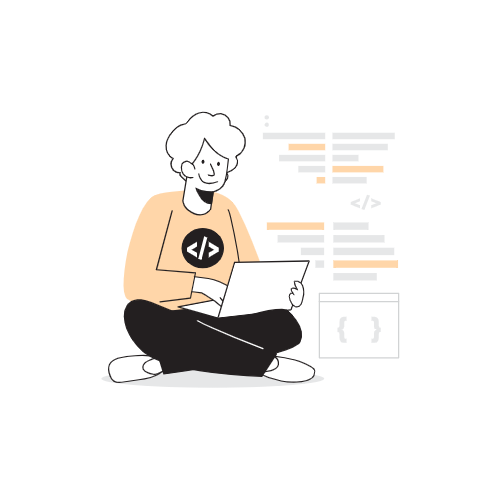
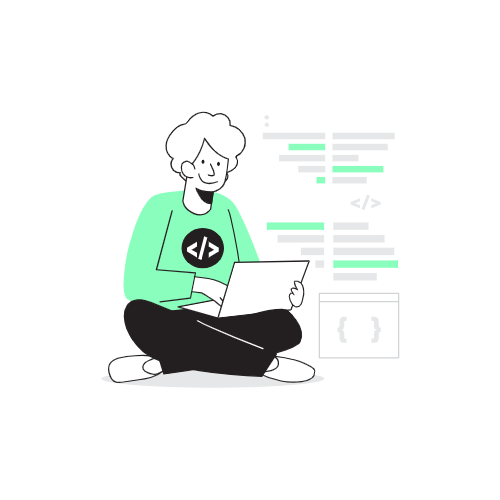
Add files via upload

diff --git a/assets/css/main.css b/assets/css/main.css
@@ -4,8 +4,11 @@ body { font-family: 'Rubik', sans-serif }
 h1, h2, h3 { color: #222 }
 h4 { font-family: "Sacramento", sans-serif;}
 p, li { color: #403d50 }
-.bg-pastel-green { background-color: rgb(227,250,245) }
-.bg-pastel-grey { background-color: #edf5f1 }
+.bg-pastel-green { background-color: #fff88a}
+.bg-pastel-grey { background-color:#fff88a
+
+
+}
 
 
 /* ==== CONTAINER FOR SINGLE COLUMN OF CONTENT ==== */
@@ -69,8 +72,8 @@ a.button:link, a.button:visited, a.button:hover, a.button:active {
 }
  
 a.button-solid:link, .button-solid:visited {
-    border-color: rgb(80,227,194);
-    background-color: rgb(80,227,194);
+    border-color: #F05454   ;
+    background-color: #F05454    ;
     color: #000;
 } 
  
@@ -206,8 +209,7 @@ a.dark-fancy-link:hover, a.dark-fancy-link:active { color: rgb(49,145,131); colo
 	.container-flexbox .item-3 { width: 100% }
 	.container-flexbox .item-3 { margin-bottom: 14% }
     .wrapper{
-        background-color: #ffd6a9
-        ;
+        background-color: #8affbd ;
         border: none ;
         border-radius: 5%;
         padding:  12px 12px 0px 12px;
@@ -400,7 +402,7 @@ img.image-circle {
 #contact-form #btn-submit { 
 	float: right; 
 	border: none; 
-    background-color: rgb(80,227,194);
+    background-color: rgb(80,227,194)   ;
     color: #000;
 	font-weight: bold;
     padding: 18px 28px;

diff --git a/assets/css/menus.css b/assets/css/menus.css
@@ -299,8 +299,8 @@
 }
 
 /* on mobiles only */
-.flyout-menu.menu-light { background-color: #ffd6a9}
-.menu-light.flyout-menu hr { background-color:rgb(80,227,194); border-color: rgb(80,227,194) } 
+.flyout-menu.menu-light { background-color: #fff3c7}
+.menu-light.flyout-menu hr { background-color:#FD6F96; border-color: #FD6F96 } 
 
 .menu-light.flyout-menu h4,
 .menu-light.flyout-menu h5,
@@ -313,21 +313,15 @@
 .menu-light .item-icon .bar3 { background-color:#403d50 }	
 
 
-/* email link */
-.menu-light.flyout-menu h5 a:link, 
-.menu-light.flyout-menu h5 a:visited {
-    border-bottom-color: rgb(80,227,194);
-}
-
 .menu-light.flyout-menu h5 a:hover, 
 .menu-light.flyout-menu h5 a:active {
     border-bottom-color: transparent;
 }
 
 /* profile image border colour */
-.menu-light.flyout-menu.flyout-menu-is-open div.fly-out-profile-box img { border-color: rgb(80,227,194) }
+.menu-light.flyout-menu.flyout-menu-is-open div.fly-out-profile-box img { border-color: #FD6F96 }
 
 /* contact icons */
-.menu-light.flyout-menu .fly-out-social-icons a i { color: rgb(80,227,194) }
+.menu-light.flyout-menu .fly-out-social-icons a i { color: #FD6F96 }
 
 /* === End light background menu === */

diff --git a/assets/css/footer.css b/assets/css/footer.css
@@ -11,7 +11,7 @@
 footer { 
     text-align: center;
     color:#fff;
-    background-color:#2c3e50;
+    background-color: #6F69AC;
     
 }
 
